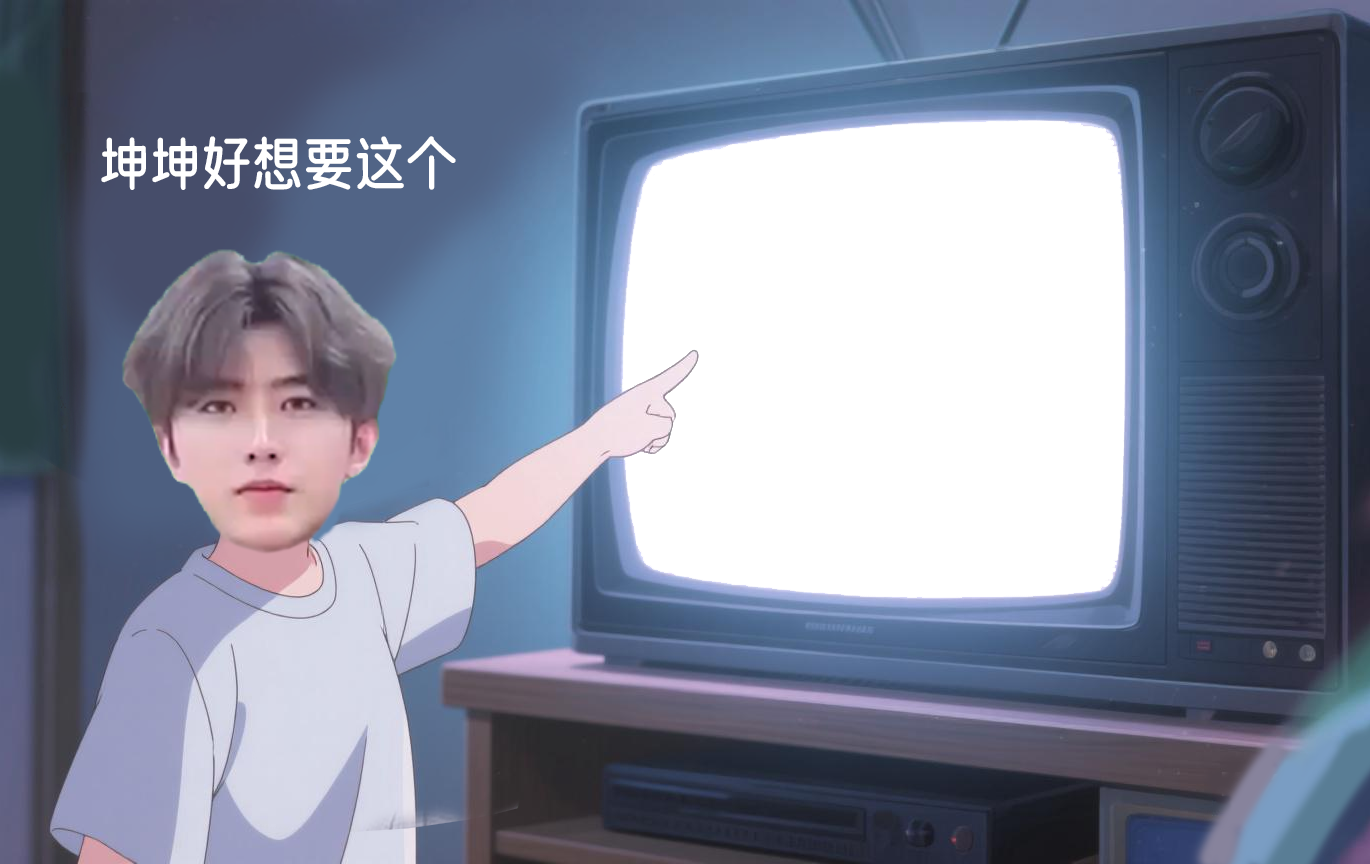
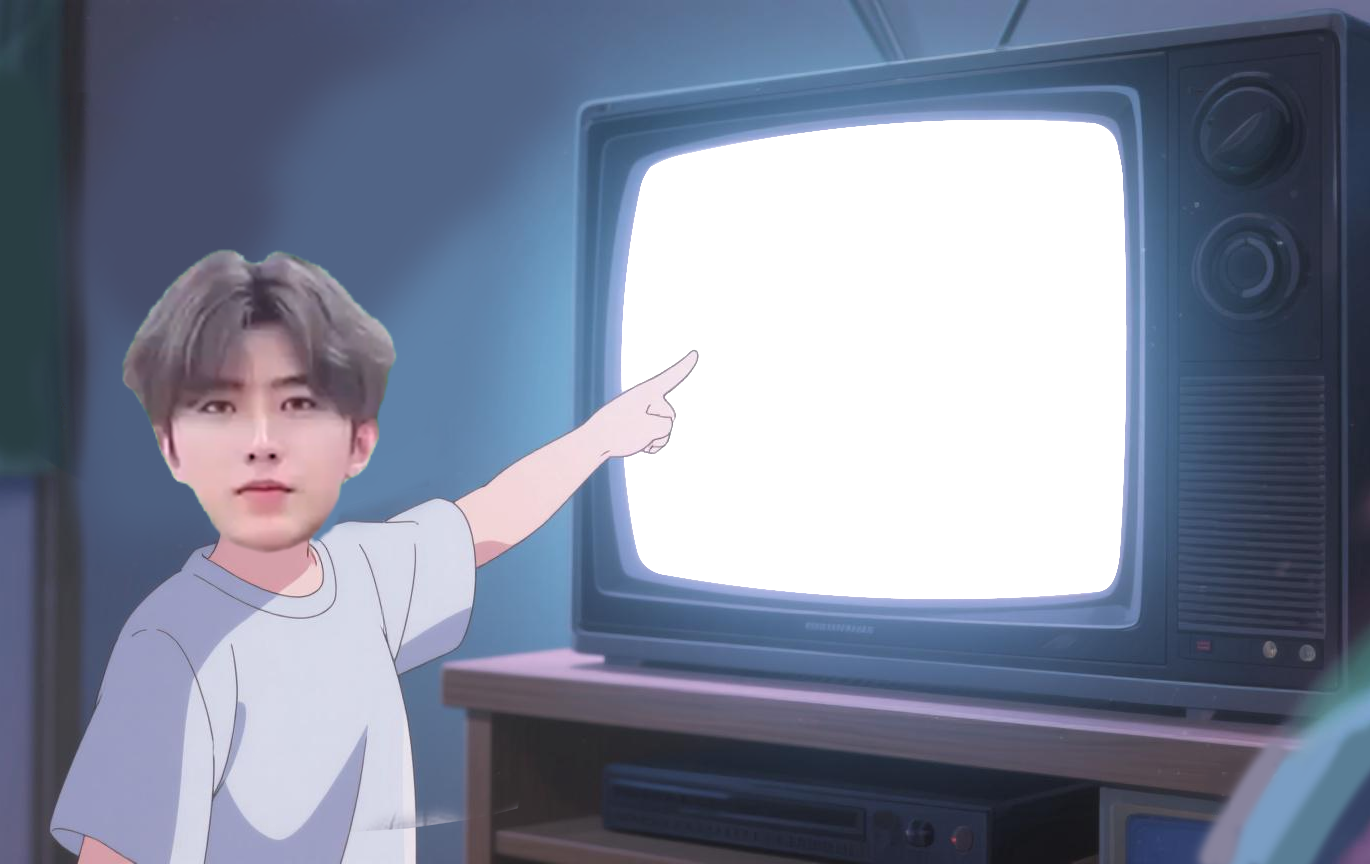
重做 ikun_need_tv 坤坤想要

Changed region(s): [[0.0613, 0.1562, 0.3372, 0.2188]]

diff --git a/emoji/ikun_need_tv/__init__.py b/emoji/ikun_need_tv/__init__.py
@@ -13,11 +13,33 @@ img_dir = Path(__file__).parent / "images"
 def ikun_need_tv(images: list[BuildImage], texts: list[str], args: MemeArgsModel):
     frame = BuildImage.open(img_dir / "0.png")
 
+    ta = "他"
+    name = ta
+    if texts:
+        name = texts[0]
+    elif args.user_infos:
+        info = args.user_infos[0]
+        ta = "他" if info.gender == "male" else "她"
+        name = info.name or ta
+
+    text = f"坤坤好喜欢\n想要一个{name}❤~"
+    try:
+        frame.draw_text(
+            (1, 1, 572, 250),
+            text,
+            fill=(255, 255, 255),
+            allow_wrap=True,
+            max_fontsize=100,
+            min_fontsize=10,
+            lines_align="center",
+            font_families=["FZShaoEr-M11S"],
+        )
+    except ValueError:
+        raise TextOverLength(name)
+
     def make(imgs: list[BuildImage]) -> BuildImage:
-        #头像尺寸
-        img = imgs[0].convert("RGBA").resize((510, 510))
-        #头像坐标
-        return frame.copy().paste(img, (620, 120), alpha=True,below=True)
+        img = imgs[0].convert("RGBA").resize((518, 488))
+        return frame.copy().paste(img, (614, 118), alpha=True, below=True)
 
     return make_jpg_or_gif(images, make)
 
@@ -28,8 +50,8 @@ add_meme(
     min_images=1,
     max_images=1,
     min_texts=0,
-    max_texts=0,
-    keywords=["坤坤想要","蔡徐坤想要","爱坤想要"],
-    date_created=datetime(2025, 5, 30),
-    date_modified=datetime(2025, 5, 30),
+    max_texts=1,
+    keywords=["坤坤想要"],
+    date_created=datetime(2025, 9, 4),
+    date_modified=datetime(2025, 9, 4),
 )
